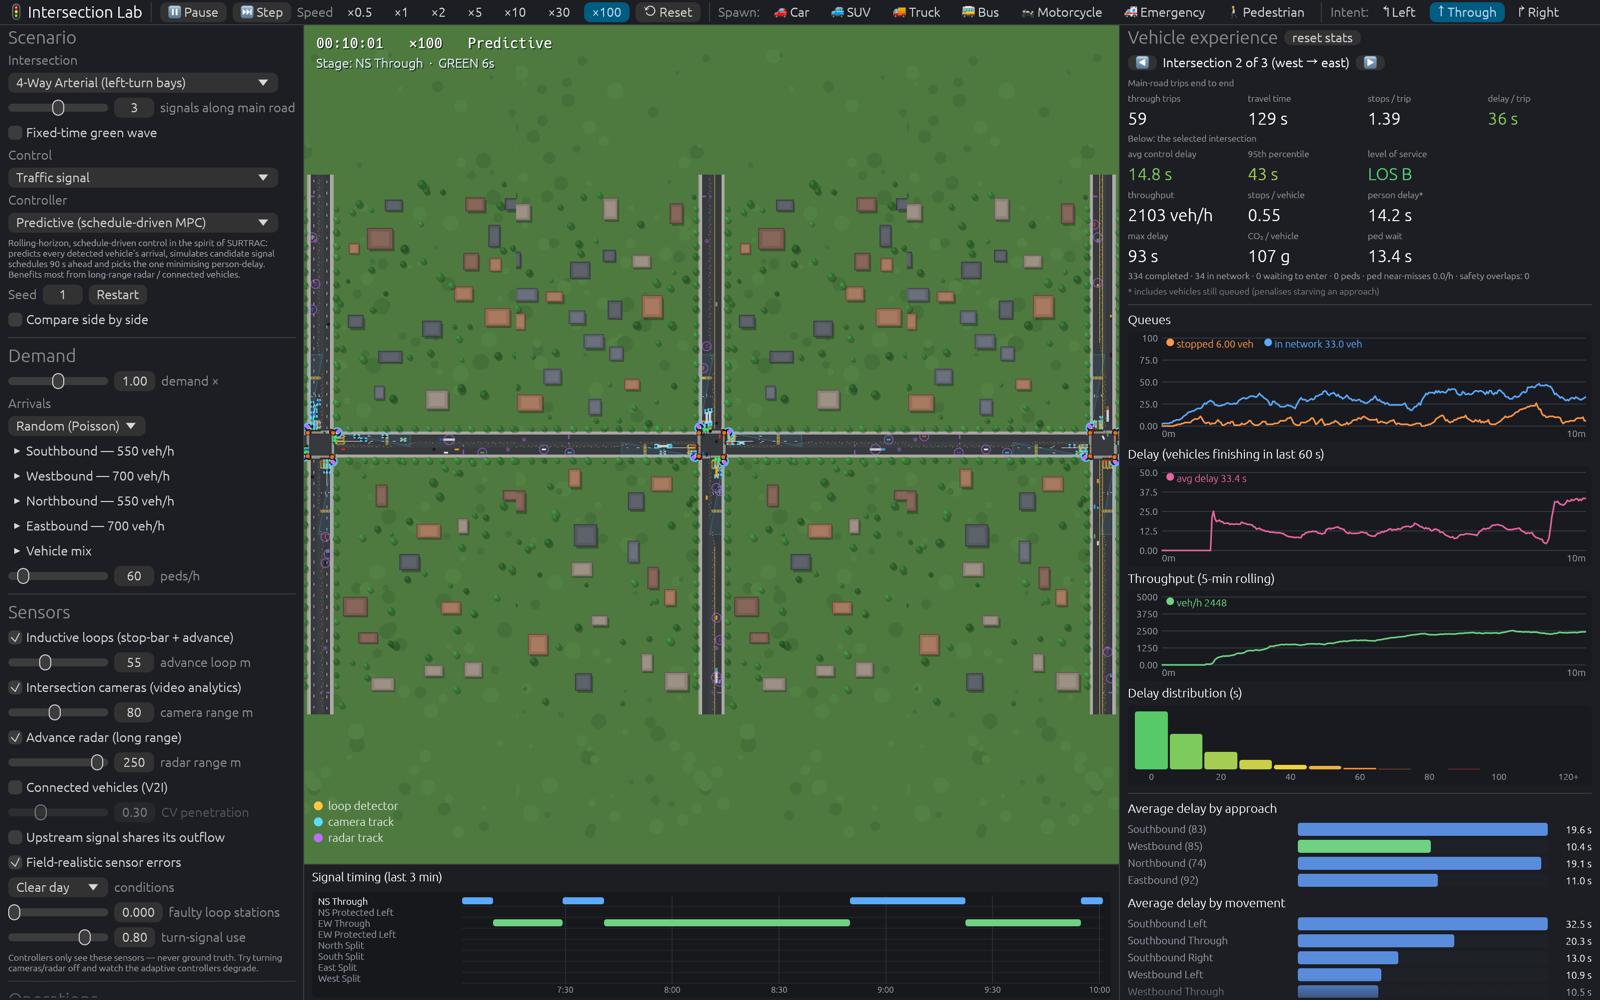
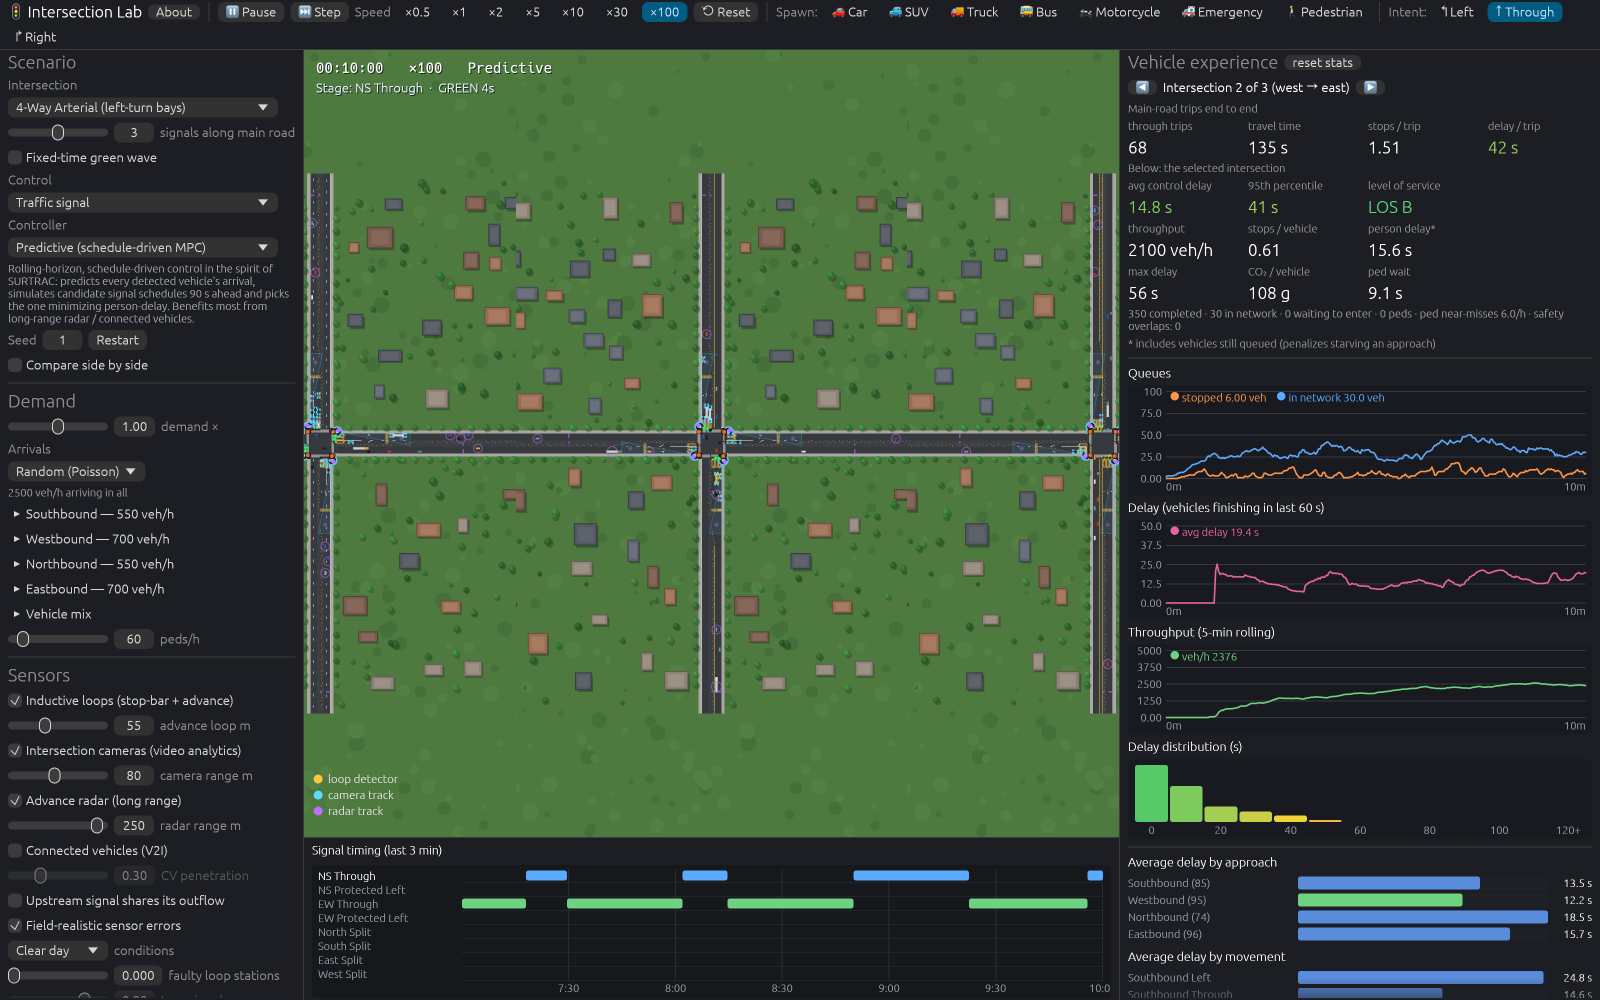
Retake the screenshots that show the old app text
The manager's description and the note under the sensor settings
changed, so every screenshot that shows either was retaken with the
app's scripted-screenshot settings:

- coop-manager.png and sensors.png are the same crops of new captures;
  coop-manager.png is 50 px taller for the longer description.
- coop.png and overview.png keep their hand-drawn callouts. Only the
  changed part of the left panel comes from a new capture, and the
  first callout on coop.png is extended to frame the taller section.
- coop-compare.png and the README's arterial.png, compare.png,
  corridor.png and cooperative.png are new captures with the same
  settings and framing. Appendix A of docs/architecture.md now lists
  the README images' settings.

docs/roundabout.png, which nothing references, still shows the old
note.

diff --git a/docs/architecture.md b/docs/architecture.md
@@ -3306,6 +3306,15 @@ Every capture used `TS_SPEED=20` and `TS_SHOT_AFTER=120` unless listed otherwise
 | `coop-bench-window` | `TS_LAYOUT=cooperative TS_BENCH=controllers TS_SPEED=1 TS_SHOT_AFTER=150` |
 | `layouts` | `TS_LAYOUT` set to each layout's key |
 
+The README's screenshots are made the same way:
+
+| Image | Settings |
+|---|---|
+| `docs/arterial.png` | `TS_SPEED=30 TS_SHOT_AFTER=420` |
+| `docs/compare.png` | `TS_TWIN=Fixed TS_SPEED=100 TS_SHOT_AFTER=600` |
+| `docs/corridor.png` | `TS_CORRIDOR=3 TS_SPEED=100 TS_SHOT_AFTER=600` |
+| `docs/cooperative.png` | `TS_LAYOUT=cooperative TS_TWIN=fcfs TS_SPEED=10 TS_SHOT_AFTER=600` |
+
 A few things to know when making new ones:
 
 * **Resolution:** on a Retina display a 1600 × 1000 window is captured at 3200 × 2000
